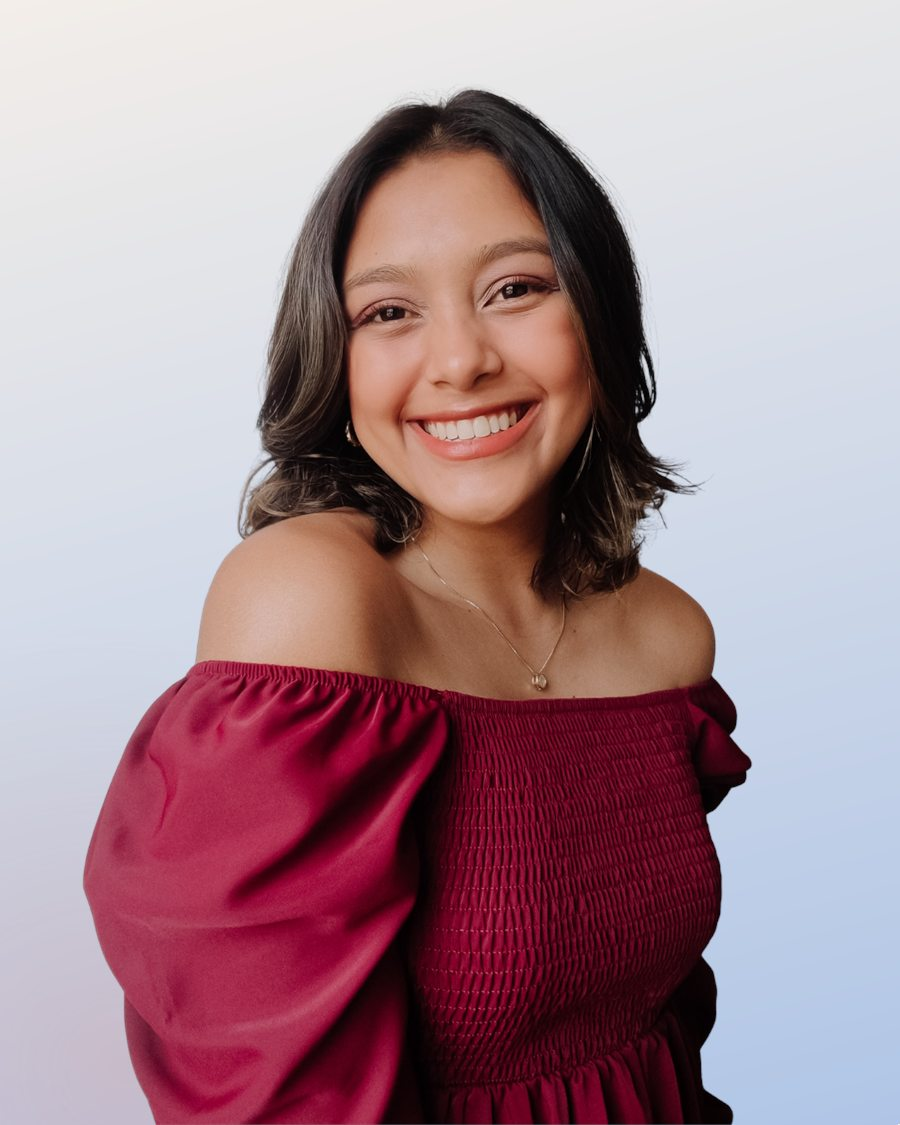
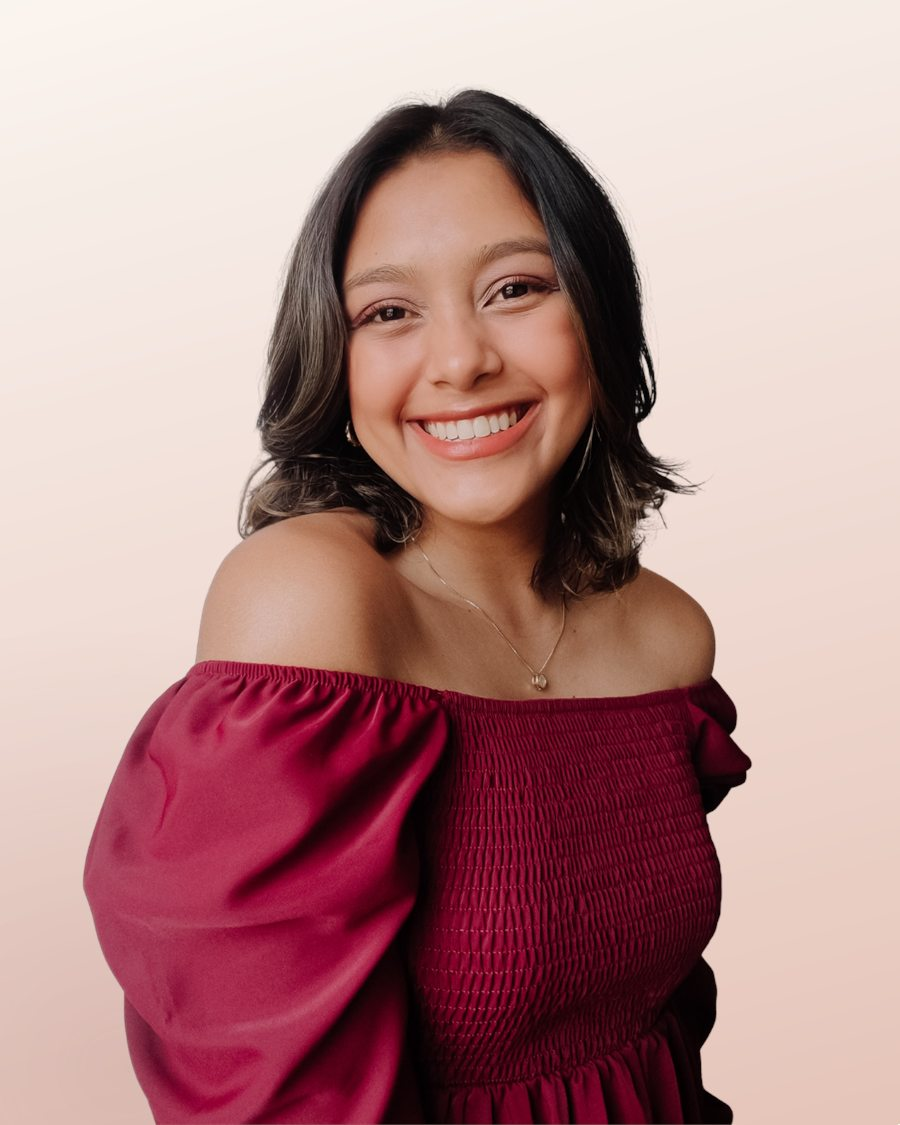
Nova paleta: vinho, creme e nude
Troca o azul e o laranja por vinho e nude, clareia a seção de serviços
(antes escura) e refaz o fundo da foto da capa nas cores novas.

Changed region(s): [[0.6844, 0.2489, 1.0, 1.0], [0.0, 0.4044, 0.3111, 0.8711], [0.0, 0.9022, 0.1867, 1.0]]

diff --git a/index.html b/index.html
@@ -5,7 +5,7 @@
 <meta name="viewport" content="width=device-width, initial-scale=1">
 <title>Tatiele Milani · Portfólio UGC Creator & Influencer</title>
 <meta name="description" content="Portfólio de Tatiele Milani, UGC creator e influencer em Curitiba/PR. Vídeos que fazem sua marca parecer recomendação de amiga e vendem como anúncio.">
-<meta name="theme-color" content="#f3eee9">
+<meta name="theme-color" content="#f7f1ec">
 <link rel="preconnect" href="https://fonts.googleapis.com">
 <link rel="preconnect" href="https://fonts.gstatic.com" crossorigin>
 <link href="https://fonts.googleapis.com/css2?family=Fraunces:ital,opsz,wght@0,9..144,300..700;1,9..144,300..700&family=Plus+Jakarta+Sans:wght@400;500;600;700&display=swap" rel="stylesheet">
@@ -15,18 +15,19 @@
    PALETA E BASE
    ========================================================= */
 :root{
-  --creme:#f3eee9;
-  --creme-2:#ebe4dc;
-  --papel:#fbf8f5;
-  --tinta:#14110d;
-  --tinta-2:#4a433b;
-  --azul:#0049a4;
-  --azul-escuro:#003577;
-  --laranja:#df7900;
-  --laranja-texto:#9c5500; /* versão mais escura do laranja, para texto pequeno com bom contraste */
-  --linha:rgba(20,17,13,.12);
-  --sombra:0 1px 2px rgba(20,17,13,.04), 0 12px 32px -12px rgba(20,17,13,.14);
-  --sombra-forte:0 2px 4px rgba(20,17,13,.05), 0 24px 48px -16px rgba(20,17,13,.22);
+  --creme:#f7f1ec;
+  --creme-2:#efe4dd;
+  --papel:#fdfaf7;
+  --tinta:#2a1a18;
+  --tinta-2:#5e4b47;
+  --vinho:#8c1d24;
+  --vinho-escuro:#6c141a;
+  --blush:#f2e2db;
+  --nude:#d9a79c;
+  --nude-texto:#a14a45; /* versão mais escura do nude, para texto pequeno com bom contraste */
+  --linha:rgba(42,26,24,.12);
+  --sombra:0 1px 2px rgba(42,26,24,.04), 0 12px 32px -12px rgba(42,26,24,.14);
+  --sombra-forte:0 2px 4px rgba(42,26,24,.05), 0 24px 48px -16px rgba(42,26,24,.22);
   --raio:14px;
   --raio-p:8px;
   --serif:"Fraunces", Georgia, "Times New Roman", serif;
@@ -44,13 +45,13 @@ body{
 img{max-width:100%;display:block}
 a{color:inherit}
 h1,h2,h3{font-family:var(--serif);font-weight:400;line-height:1.05;margin:0;letter-spacing:-.02em;font-variation-settings:"opsz" 144}
-h1 em,h2 em,h3 em,.serif em{font-style:italic;color:var(--azul)}
+h1 em,h2 em,h3 em,.serif em{font-style:italic;color:var(--vinho)}
 p{margin:0 0 1em}
 .container{width:100%;max-width:var(--largura);margin:0 auto;padding:0 24px}
 .sr-only{position:absolute;width:1px;height:1px;padding:0;margin:-1px;overflow:hidden;clip:rect(0,0,0,0);white-space:nowrap;border:0}
 
 /* Foco visível no teclado */
-:focus-visible{outline:2px solid var(--azul);outline-offset:3px;border-radius:4px}
+:focus-visible{outline:2px solid var(--vinho);outline-offset:3px;border-radius:4px}
 .pular{position:absolute;left:16px;top:-60px;background:var(--tinta);color:var(--creme);padding:10px 16px;border-radius:var(--raio-p);z-index:200;text-decoration:none}
 .pular:focus{top:12px}
 
@@ -59,7 +60,7 @@ p{margin:0 0 1em}
   display:inline-flex;align-items:center;gap:10px;
   font-size:.75rem;font-weight:600;letter-spacing:.18em;text-transform:uppercase;color:var(--tinta-2);margin-bottom:20px;
 }
-.sobretitulo::before{content:"";width:28px;height:1px;background:var(--laranja)}
+.sobretitulo::before{content:"";width:28px;height:1px;background:var(--nude)}
 .secao{padding:120px 0}
 .secao-cabeca{max-width:720px;margin-bottom:64px}
 .secao-cabeca h2{font-size:clamp(2.4rem,5.5vw,4.25rem)}
@@ -72,8 +73,8 @@ p{margin:0 0 1em}
   padding:15px 26px;border-radius:999px;border:1px solid transparent;
   text-decoration:none;cursor:pointer;transition:transform .25s ease, background .25s ease, color .25s ease, box-shadow .25s ease;
 }
-.btn-primario{background:var(--azul);color:#fff;box-shadow:0 10px 24px -10px rgba(0,73,164,.6)}
-.btn-primario:hover{background:var(--azul-escuro);transform:translateY(-2px)}
+.btn-primario{background:var(--vinho);color:#fff;box-shadow:0 10px 24px -10px rgba(140,29,36,.6)}
+.btn-primario:hover{background:var(--vinho-escuro);transform:translateY(-2px)}
 .btn-linha{background:transparent;color:var(--tinta);border-color:var(--tinta)}
 .btn-linha:hover{background:var(--tinta);color:var(--creme);transform:translateY(-2px)}
 .btn svg{width:18px;height:18px;flex-shrink:0}
@@ -81,11 +82,11 @@ p{margin:0 0 1em}
 /* Blocos de mídia (placeholders com degradê) */
 .midia{
   position:relative;overflow:hidden;border-radius:var(--raio);
-  background:linear-gradient(155deg,#dcd3c8 0%,#c9d4e6 55%,#8fa9d3 100%);
+  background:linear-gradient(155deg,#f2e6df 0%,#e8cdc4 55%,#d4a59a 100%);
 }
 .midia::after{
   content:"";position:absolute;inset:0;
-  background:radial-gradient(circle at 75% 20%,rgba(255,255,255,.45),transparent 45%),radial-gradient(circle at 15% 90%,rgba(223,121,0,.22),transparent 50%);
+  background:radial-gradient(circle at 75% 20%,rgba(255,255,255,.45),transparent 45%),radial-gradient(circle at 15% 90%,rgba(140,29,36,.16),transparent 50%);
   pointer-events:none;
 }
 .midia img{width:100%;height:100%;object-fit:cover}
@@ -93,7 +94,7 @@ p{margin:0 0 1em}
 .midia-legenda{
   position:absolute;left:14px;bottom:14px;z-index:2;
   font-size:.72rem;font-weight:600;letter-spacing:.08em;text-transform:uppercase;
-  background:rgba(251,248,245,.88);color:var(--tinta);padding:6px 11px;border-radius:999px;
+  background:rgba(253,250,247,.88);color:var(--tinta);padding:6px 11px;border-radius:999px;
 }
 
 /* =========================================================
@@ -101,21 +102,21 @@ p{margin:0 0 1em}
    ========================================================= */
 .topo{
   position:fixed;inset:0 0 auto 0;z-index:100;height:var(--topo);
-  background:rgba(243,238,233,.82);backdrop-filter:saturate(140%) blur(12px);-webkit-backdrop-filter:saturate(140%) blur(12px);
+  background:rgba(247,241,236,.82);backdrop-filter:saturate(140%) blur(12px);-webkit-backdrop-filter:saturate(140%) blur(12px);
   border-bottom:1px solid transparent;transition:border-color .3s ease, background .3s ease;
 }
-.topo.rolou{border-bottom-color:var(--linha);background:rgba(243,238,233,.94)}
+.topo.rolou{border-bottom-color:var(--linha);background:rgba(247,241,236,.94)}
 .topo .container{display:flex;align-items:center;justify-content:space-between;height:100%;gap:24px}
 .marca-nome{font-family:var(--serif);font-size:1.35rem;text-decoration:none;letter-spacing:-.01em;white-space:nowrap}
-.marca-nome em{font-style:italic;color:var(--azul)}
+.marca-nome em{font-style:italic;color:var(--vinho)}
 .menu{display:flex;align-items:center;gap:30px;list-style:none;margin:0;padding:0}
 .menu a{text-decoration:none;font-size:.9rem;font-weight:500;color:var(--tinta-2);position:relative;padding:6px 0;transition:color .2s}
-.menu a::after{content:"";position:absolute;left:0;right:0;bottom:0;height:1px;background:var(--laranja);transform:scaleX(0);transform-origin:left;transition:transform .3s ease}
+.menu a::after{content:"";position:absolute;left:0;right:0;bottom:0;height:1px;background:var(--nude);transform:scaleX(0);transform-origin:left;transition:transform .3s ease}
 .menu a:hover{color:var(--tinta)}
 .menu a:hover::after{transform:scaleX(1)}
-.menu .menu-cta a{background:var(--tinta);color:var(--creme);padding:10px 18px;border-radius:999px}
+.menu .menu-cta a{background:var(--vinho);color:var(--creme);padding:10px 18px;border-radius:999px}
 .menu .menu-cta a::after{display:none}
-.menu .menu-cta a:hover{background:var(--azul)}
+.menu .menu-cta a:hover{background:var(--vinho-escuro)}
 .sanduiche{display:none;width:44px;height:44px;border:0;background:transparent;cursor:pointer;position:relative;border-radius:8px}
 .sanduiche span{position:absolute;left:11px;right:11px;height:1.5px;background:var(--tinta);transition:transform .3s ease, opacity .2s}
 .sanduiche span:nth-child(1){top:15px}
@@ -130,7 +131,7 @@ p{margin:0 0 1em}
    ========================================================= */
 .capa{padding:calc(var(--topo) + 64px) 0 0;position:relative}
 .capa-grade{display:grid;grid-template-columns:1.15fr .85fr;gap:64px;align-items:center}
-.capa h1{font-size:clamp(3rem,8.4vw,7.2rem);line-height:.95;overflow-wrap:break-word}
+.capa h1{font-size:clamp(3rem,8.4vw,7.2rem);line-height:.95;overflow-wrap:break-word;color:var(--vinho)}
 .capa h1 .linha{display:block}
 .capa h1 .menor{font-size:.62em;color:var(--tinta-2)}
 .capa-frase{font-size:clamp(1.1rem,1.6vw,1.3rem);color:var(--tinta-2);max-width:520px;margin:32px 0 36px}
@@ -138,7 +139,7 @@ p{margin:0 0 1em}
 .capa-botoes{display:flex;flex-wrap:wrap;gap:14px}
 .capa-numeros{display:flex;flex-wrap:wrap;gap:40px;margin-top:56px;padding-top:28px;border-top:1px solid var(--linha)}
 .capa-numeros div{min-width:0}
-.capa-numeros strong{display:block;font-family:var(--serif);font-size:2.2rem;font-weight:400;line-height:1;color:var(--azul)}
+.capa-numeros strong{display:block;font-family:var(--serif);font-size:2.2rem;font-weight:400;line-height:1;color:var(--vinho)}
 .capa-numeros span{font-size:.82rem;color:var(--tinta-2)}
 .capa-foto{position:relative}
 .capa-foto .midia{aspect-ratio:4/5;box-shadow:var(--sombra-forte)}
@@ -148,9 +149,9 @@ p{margin:0 0 1em}
   font-size:.82rem;line-height:1.35;
 }
 .capa-selo strong{display:block;font-family:var(--serif);font-size:1.1rem;font-weight:500}
-.capa-selo .ponto{display:inline-block;width:8px;height:8px;border-radius:50%;background:var(--laranja);margin-right:6px;vertical-align:middle}
+.capa-selo .ponto{display:inline-block;width:8px;height:8px;border-radius:50%;background:var(--vinho);margin-right:6px;vertical-align:middle}
 .capa-foto .rabisco{
-  position:absolute;left:-26px;bottom:48px;z-index:3;background:var(--azul);color:#fff;
+  position:absolute;left:-26px;bottom:48px;z-index:3;background:var(--vinho);color:#fff;
   font-family:var(--serif);font-style:italic;font-size:1.05rem;padding:10px 18px;border-radius:999px;transform:rotate(-4deg);box-shadow:var(--sombra)
 }
 
@@ -160,7 +161,7 @@ p{margin:0 0 1em}
 .faixa:hover .faixa-trilho{animation-play-state:paused}
 .faixa ul{display:flex;gap:56px;list-style:none;margin:0;padding:0 28px}
 .faixa li{font-family:var(--serif);font-size:1.25rem;color:var(--tinta-2);white-space:nowrap;display:flex;align-items:center;gap:56px}
-.faixa li::after{content:"✦";font-size:.7rem;color:var(--laranja)}
+.faixa li::after{content:"✦";font-size:.7rem;color:var(--nude)}
 @keyframes desliza{to{transform:translateX(-50%)}}
 
 /* =========================================================
@@ -169,15 +170,15 @@ p{margin:0 0 1em}
 .sobre-grade{display:grid;grid-template-columns:.85fr 1.15fr;gap:88px;align-items:center}
 .sobre-foto .midia{aspect-ratio:4/5;box-shadow:var(--sombra)}
 .sobre-foto{position:relative}
-.sobre-foto::before{content:"";position:absolute;inset:24px -24px -24px 24px;border:1px solid var(--azul);border-radius:var(--raio);z-index:-1}
+.sobre-foto::before{content:"";position:absolute;inset:24px -24px -24px 24px;border:1px solid var(--vinho);border-radius:var(--raio);z-index:-1}
 .sobre-texto h2{font-size:clamp(2.3rem,4.8vw,3.75rem);margin-bottom:28px}
 .sobre-texto p{color:var(--tinta-2);max-width:560px}
 .promessas{list-style:none;padding:0;margin:36px 0;display:grid;gap:14px}
 .promessas li{
   display:flex;align-items:center;gap:16px;background:var(--papel);padding:16px 20px;border-radius:var(--raio-p);box-shadow:var(--sombra);font-weight:500
 }
-.promessas .num{font-family:var(--serif);font-style:italic;color:var(--laranja-texto);font-size:1.15rem;min-width:28px}
-.assinatura{font-family:var(--serif);font-style:italic;font-size:2rem;color:var(--azul);margin:0;line-height:1.1}
+.promessas .num{font-family:var(--serif);font-style:italic;color:var(--nude-texto);font-size:1.15rem;min-width:28px}
+.assinatura{font-family:var(--serif);font-style:italic;font-size:2rem;color:var(--vinho);margin:0;line-height:1.1}
 .assinatura small{display:block;font-family:var(--sans);font-style:normal;font-size:.8rem;color:var(--tinta-2);letter-spacing:.06em;margin-top:6px}
 
 /* =========================================================
@@ -190,24 +191,24 @@ p{margin:0 0 1em}
   transition:transform .4s ease;
 }
 .destaque .midia{aspect-ratio:9/16;box-shadow:var(--sombra);transition:box-shadow .4s ease}
-.destaque:nth-child(2) .midia{background:linear-gradient(160deg,#c9d4e6 0%,#7f9fd0 60%,#0049a4 100%)}
-.destaque:nth-child(3) .midia{background:linear-gradient(160deg,#efd9c0 0%,#e7b67a 55%,#c96d00 100%)}
+.destaque:nth-child(2) .midia{background:linear-gradient(160deg,#efd8d0 0%,#c98a83 60%,#8c1d24 100%)}
+.destaque:nth-child(3) .midia{background:linear-gradient(160deg,#f5ebe4 0%,#e3c2b4 55%,#b9786b 100%)}
 .destaque:hover{transform:translateY(-6px)}
 .destaque:hover .midia{box-shadow:var(--sombra-forte)}
 .play{
   position:absolute;inset:0;margin:auto;z-index:2;width:76px;height:76px;border-radius:50%;
-  background:rgba(251,248,245,.92);display:grid;place-items:center;box-shadow:0 10px 30px -8px rgba(20,17,13,.35);
+  background:rgba(253,250,247,.92);display:grid;place-items:center;box-shadow:0 10px 30px -8px rgba(42,26,24,.35);
   transition:transform .35s ease, background .35s ease;
 }
-.play svg{width:26px;height:26px;margin-left:4px;fill:var(--azul);transition:fill .35s}
-.destaque:hover .play{transform:scale(1.08);background:var(--azul)}
+.play svg{width:26px;height:26px;margin-left:4px;fill:var(--vinho);transition:fill .35s}
+.destaque:hover .play{transform:scale(1.08);background:var(--vinho)}
 .destaque:hover .play svg{fill:#fff}
 .destaque-info{padding:24px 4px 0}
-.destaque-numero{font-family:var(--serif);font-size:clamp(2.6rem,4.4vw,3.6rem);line-height:1;color:var(--azul);font-weight:400}
-.destaque-rotulo{display:block;font-size:.75rem;font-weight:600;letter-spacing:.14em;text-transform:uppercase;color:var(--laranja-texto);margin:8px 0 14px}
+.destaque-numero{font-family:var(--serif);font-size:clamp(2.6rem,4.4vw,3.6rem);line-height:1;color:var(--vinho);font-weight:400}
+.destaque-rotulo{display:block;font-size:.75rem;font-weight:600;letter-spacing:.14em;text-transform:uppercase;color:var(--nude-texto);margin:8px 0 14px}
 .destaque h3{font-size:1.45rem;margin-bottom:6px}
 .destaque p{font-size:.95rem;color:var(--tinta-2);margin:0}
-.destaque .ver{display:inline-flex;align-items:center;gap:6px;margin-top:14px;font-size:.85rem;font-weight:600;color:var(--tinta);border-bottom:1px solid var(--laranja);padding-bottom:2px}
+.destaque .ver{display:inline-flex;align-items:center;gap:6px;margin-top:14px;font-size:.85rem;font-weight:600;color:var(--tinta);border-bottom:1px solid var(--nude);padding-bottom:2px}
 
 /* =========================================================
    4. TRABALHOS POR NICHO
@@ -218,7 +219,7 @@ p{margin:0 0 1em}
   border:1px solid var(--linha);background:transparent;color:var(--tinta);cursor:pointer;transition:all .25s ease
 }
 .filtro:hover{border-color:var(--tinta)}
-.filtro[aria-pressed="true"]{background:var(--tinta);color:var(--creme);border-color:var(--tinta)}
+.filtro[aria-pressed="true"]{background:var(--vinho);color:#fff;border-color:var(--vinho)}
 .filtro-n{font-size:.75em;opacity:.6;margin-left:2px}
 .trabalhos-grade{display:grid;grid-template-columns:repeat(5,1fr);gap:22px}
 .trabalho{margin:0}
@@ -227,12 +228,12 @@ p{margin:0 0 1em}
 .trabalho-link{display:block;text-decoration:none;color:inherit;border-radius:var(--raio)}
 .trabalho .midia{aspect-ratio:9/16;box-shadow:var(--sombra);transition:box-shadow .35s ease, transform .35s ease}
 .trabalho-link:hover .midia{box-shadow:var(--sombra-forte);transform:translateY(-4px)}
-.trabalho-link:hover .play{transform:scale(1.08);background:var(--azul)}
+.trabalho-link:hover .play{transform:scale(1.08);background:var(--vinho)}
 .trabalho-link:hover .play svg{fill:#fff}
 .play.play-p{width:52px;height:52px}
 .play.play-p svg{width:20px;height:20px;margin-left:3px}
 .trabalho figcaption{padding:12px 2px 0}
-.trabalho .nicho-tag{font-size:.68rem;font-weight:600;letter-spacing:.12em;text-transform:uppercase;color:var(--azul)}
+.trabalho .nicho-tag{font-size:.68rem;font-weight:600;letter-spacing:.12em;text-transform:uppercase;color:var(--vinho)}
 .trabalho h3{font-size:1.1rem;margin:3px 0 0;line-height:1.25}
 .midia.tem-foto{background:#1d1915}
 .midia.tem-foto::after{display:none}
@@ -252,29 +253,26 @@ p{margin:0 0 1em}
 /* =========================================================
    5. SERVIÇOS
    ========================================================= */
-.servicos{background:var(--tinta);color:var(--creme)}
-.servicos .sobretitulo{color:rgba(243,238,233,.7)}
-.servicos h2 em{color:#8fb5ef}
-.servicos .secao-cabeca p{color:rgba(243,238,233,.72)}
-.servicos-grade{display:grid;grid-template-columns:repeat(3,1fr);border-top:1px solid rgba(243,238,233,.16)}
-.servico{padding:40px 32px 44px 0;border-bottom:1px solid rgba(243,238,233,.16);transition:background .3s}
-.servico:not(:nth-child(3n+1)){padding-left:32px;border-left:1px solid rgba(243,238,233,.16)}
-.servico-num{font-family:var(--serif);font-style:italic;font-size:1rem;color:var(--laranja)}
+.servicos{background:var(--blush);color:var(--tinta)}
+.servicos-grade{display:grid;grid-template-columns:repeat(3,1fr);border-top:1px solid rgba(140,29,36,.18)}
+.servico{padding:40px 32px 44px 0;border-bottom:1px solid rgba(140,29,36,.18);transition:background .3s}
+.servico:not(:nth-child(3n+1)){padding-left:32px;border-left:1px solid rgba(140,29,36,.18)}
+.servico-num{font-family:var(--serif);font-style:italic;font-size:1rem;color:var(--vinho)}
 .servico h3{font-size:1.75rem;margin:18px 0 12px}
-.servico p{color:rgba(243,238,233,.72);font-size:.97rem;margin:0}
+.servico p{color:var(--tinta-2);font-size:.97rem;margin:0}
 
 /* =========================================================
    6. NÚMEROS E DEPOIMENTOS
    ========================================================= */
 .metricas{display:grid;grid-template-columns:repeat(4,1fr);gap:24px;margin-bottom:88px}
 .metrica{background:var(--papel);border-radius:var(--raio);padding:32px 28px;box-shadow:var(--sombra)}
-.metrica strong{display:block;font-family:var(--serif);font-weight:400;font-size:clamp(2.6rem,4.6vw,3.8rem);line-height:1;color:var(--azul);font-variant-numeric:tabular-nums}
+.metrica strong{display:block;font-family:var(--serif);font-weight:400;font-size:clamp(2.6rem,4.6vw,3.8rem);line-height:1;color:var(--vinho);font-variant-numeric:tabular-nums}
 .metrica span{display:block;margin-top:12px;font-size:.92rem;color:var(--tinta-2)}
 .subtitulo{font-family:var(--serif);font-size:1.9rem;margin-bottom:28px}
-.subtitulo em{font-style:italic;color:var(--azul)}
+.subtitulo em{font-style:italic;color:var(--vinho)}
 .resultados{display:grid;grid-template-columns:repeat(3,1fr);gap:24px;margin-bottom:88px}
 .resultado{border-top:2px solid var(--tinta);padding-top:22px}
-.resultado .valor{font-family:var(--serif);font-size:2.6rem;line-height:1;color:var(--laranja-texto)}
+.resultado .valor{font-family:var(--serif);font-size:2.6rem;line-height:1;color:var(--nude-texto)}
 .resultado .rot{display:block;font-size:.78rem;font-weight:600;letter-spacing:.12em;text-transform:uppercase;color:var(--tinta-2);margin:10px 0 12px}
 .resultado h3{font-size:1.3rem;margin-bottom:6px}
 .resultado p{color:var(--tinta-2);font-size:.95rem;margin:0}
@@ -283,17 +281,17 @@ p{margin:0 0 1em}
 .depoimento::before{content:"\201C";position:absolute;top:8px;right:28px;font-family:var(--serif);font-size:6rem;line-height:1;color:var(--creme-2)}
 .depoimento blockquote{margin:0 0 24px;font-family:var(--serif);font-size:1.3rem;line-height:1.45;position:relative}
 .depoimento figcaption{display:flex;align-items:center;gap:14px;font-size:.9rem}
-.avatar{width:44px;height:44px;border-radius:50%;background:linear-gradient(135deg,#c9d4e6,#0049a4);display:grid;place-items:center;color:#fff;font-family:var(--serif);font-size:1.1rem;flex-shrink:0}
+.avatar{width:44px;height:44px;border-radius:50%;background:linear-gradient(135deg,#d9a79c,#8c1d24);display:grid;place-items:center;color:#fff;font-family:var(--serif);font-size:1.1rem;flex-shrink:0}
 .depoimento figcaption strong{display:block;font-weight:600}
 .depoimento figcaption span{color:var(--tinta-2)}
 
 /* =========================================================
    7. CONTATO
    ========================================================= */
-.contato{background:var(--azul);color:#fff;border-radius:28px;margin:0 24px;padding:96px 0}
+.contato{background:var(--vinho);color:#fff;border-radius:28px;margin:0 24px;padding:96px 0}
 .contato-grade{display:grid;grid-template-columns:1fr 1fr;gap:72px;align-items:start}
 .contato h2{font-size:clamp(2.6rem,6vw,4.8rem);color:#fff}
-.contato h2 em{color:#ffc27a}
+.contato h2 em{color:#f6cfc6}
 .contato .sobretitulo{color:rgba(255,255,255,.8)}
 .contato-intro p{color:rgba(255,255,255,.85);margin:24px 0 36px;max-width:440px}
 .canais{display:flex;flex-direction:column;gap:12px;max-width:380px}
@@ -313,10 +311,10 @@ p{margin:0 0 1em}
   background:#fff;border:1px solid var(--linha);border-radius:var(--raio-p);padding:14px 16px;transition:border-color .2s, box-shadow .2s
 }
 .campo textarea{min-height:140px;resize:vertical}
-.campo input:focus,.campo textarea:focus{outline:none;border-color:var(--azul);box-shadow:0 0 0 3px rgba(0,73,164,.15)}
+.campo input:focus,.campo textarea:focus{outline:none;border-color:var(--vinho);box-shadow:0 0 0 3px rgba(140,29,36,.15)}
 .formulario .btn{width:100%}
 .confirmacao{text-align:center;padding:24px 0}
-.confirmacao .check{width:64px;height:64px;border-radius:50%;background:var(--azul);color:#fff;display:grid;place-items:center;margin:0 auto 20px}
+.confirmacao .check{width:64px;height:64px;border-radius:50%;background:var(--vinho);color:#fff;display:grid;place-items:center;margin:0 auto 20px}
 .confirmacao h3{font-size:2rem;margin-bottom:10px}
 .confirmacao p{color:var(--tinta-2)}
 
@@ -326,9 +324,9 @@ p{margin:0 0 1em}
 .rodape{padding:72px 0 40px}
 .rodape-topo{display:flex;flex-wrap:wrap;justify-content:space-between;align-items:flex-end;gap:32px;padding-bottom:40px;border-bottom:1px solid var(--linha)}
 .rodape-nome{font-family:var(--serif);font-size:clamp(2rem,4vw,3rem);line-height:1}
-.rodape-nome em{font-style:italic;color:var(--azul)}
+.rodape-nome em{font-style:italic;color:var(--vinho)}
 .rodape-redes{display:flex;flex-wrap:wrap;gap:24px;list-style:none;margin:0;padding:0}
-.rodape-redes a{text-decoration:none;font-weight:500;font-size:.95rem;border-bottom:1px solid var(--laranja);padding-bottom:2px}
+.rodape-redes a{text-decoration:none;font-weight:500;font-size:.95rem;border-bottom:1px solid var(--nude);padding-bottom:2px}
 .rodape-base{display:flex;flex-wrap:wrap;justify-content:space-between;gap:12px;padding-top:24px;font-size:.85rem;color:var(--tinta-2)}
 
 /* =========================================================
@@ -336,7 +334,7 @@ p{margin:0 0 1em}
    ========================================================= */
 .modal{position:fixed;inset:0;z-index:300;display:grid;place-items:center;padding:20px}
 .modal[hidden]{display:none}
-.modal-fundo{position:absolute;inset:0;background:rgba(20,17,13,.6);backdrop-filter:blur(3px);animation:aparece .35s ease}
+.modal-fundo{position:absolute;inset:0;background:rgba(42,26,24,.6);backdrop-filter:blur(3px);animation:aparece .35s ease}
 .modal-card{
   position:relative;width:100%;max-width:440px;max-height:calc(100vh - 40px);overflow:auto;
   background:var(--creme);border-radius:20px;padding:44px 36px 36px;box-shadow:var(--sombra-forte);animation:sobe .45s cubic-bezier(.2,.8,.2,1)
@@ -348,7 +346,7 @@ p{margin:0 0 1em}
 }
 .modal-fechar:hover{background:var(--creme-2)}
 .modal-fechar svg{width:20px;height:20px}
-.modal-faixa{position:absolute;top:0;left:36px;right:36px;height:4px;border-radius:0 0 4px 4px;background:linear-gradient(90deg,var(--azul),var(--laranja))}
+.modal-faixa{position:absolute;top:0;left:36px;right:36px;height:4px;border-radius:0 0 4px 4px;background:linear-gradient(90deg,var(--vinho),var(--nude))}
 @keyframes aparece{from{opacity:0}}
 @keyframes sobe{from{opacity:0;transform:translateY(24px) scale(.98)}}
 
@@ -366,7 +364,7 @@ p{margin:0 0 1em}
   .metricas{grid-template-columns:repeat(2,1fr)}
   .servicos-grade{grid-template-columns:repeat(2,1fr)}
   .servico,.servico:not(:nth-child(3n+1)){padding:36px 28px 40px 0;border-left:0}
-  .servico:nth-child(2n){padding-left:28px;border-left:1px solid rgba(243,238,233,.16)}
+  .servico:nth-child(2n){padding-left:28px;border-left:1px solid rgba(140,29,36,.18)}
 }
 @media (max-width:900px){
   :root{--topo:64px}
